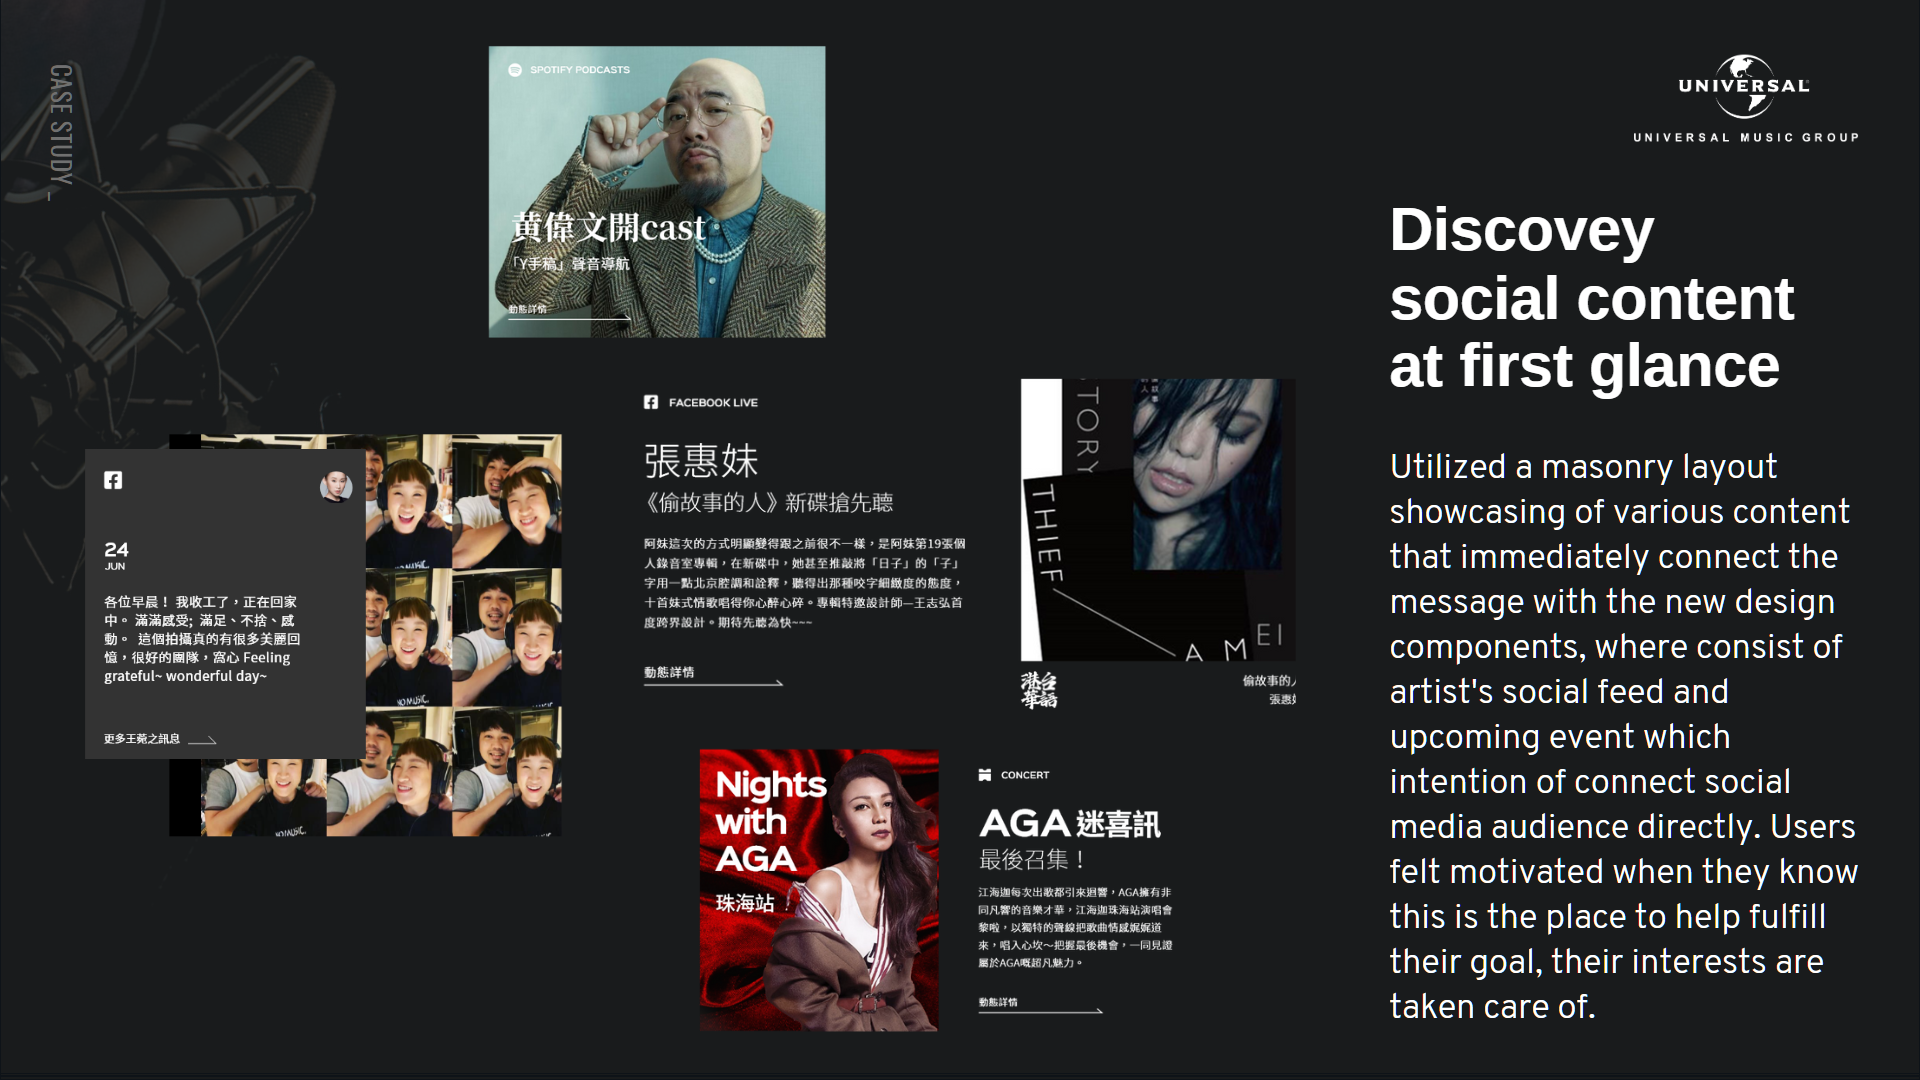
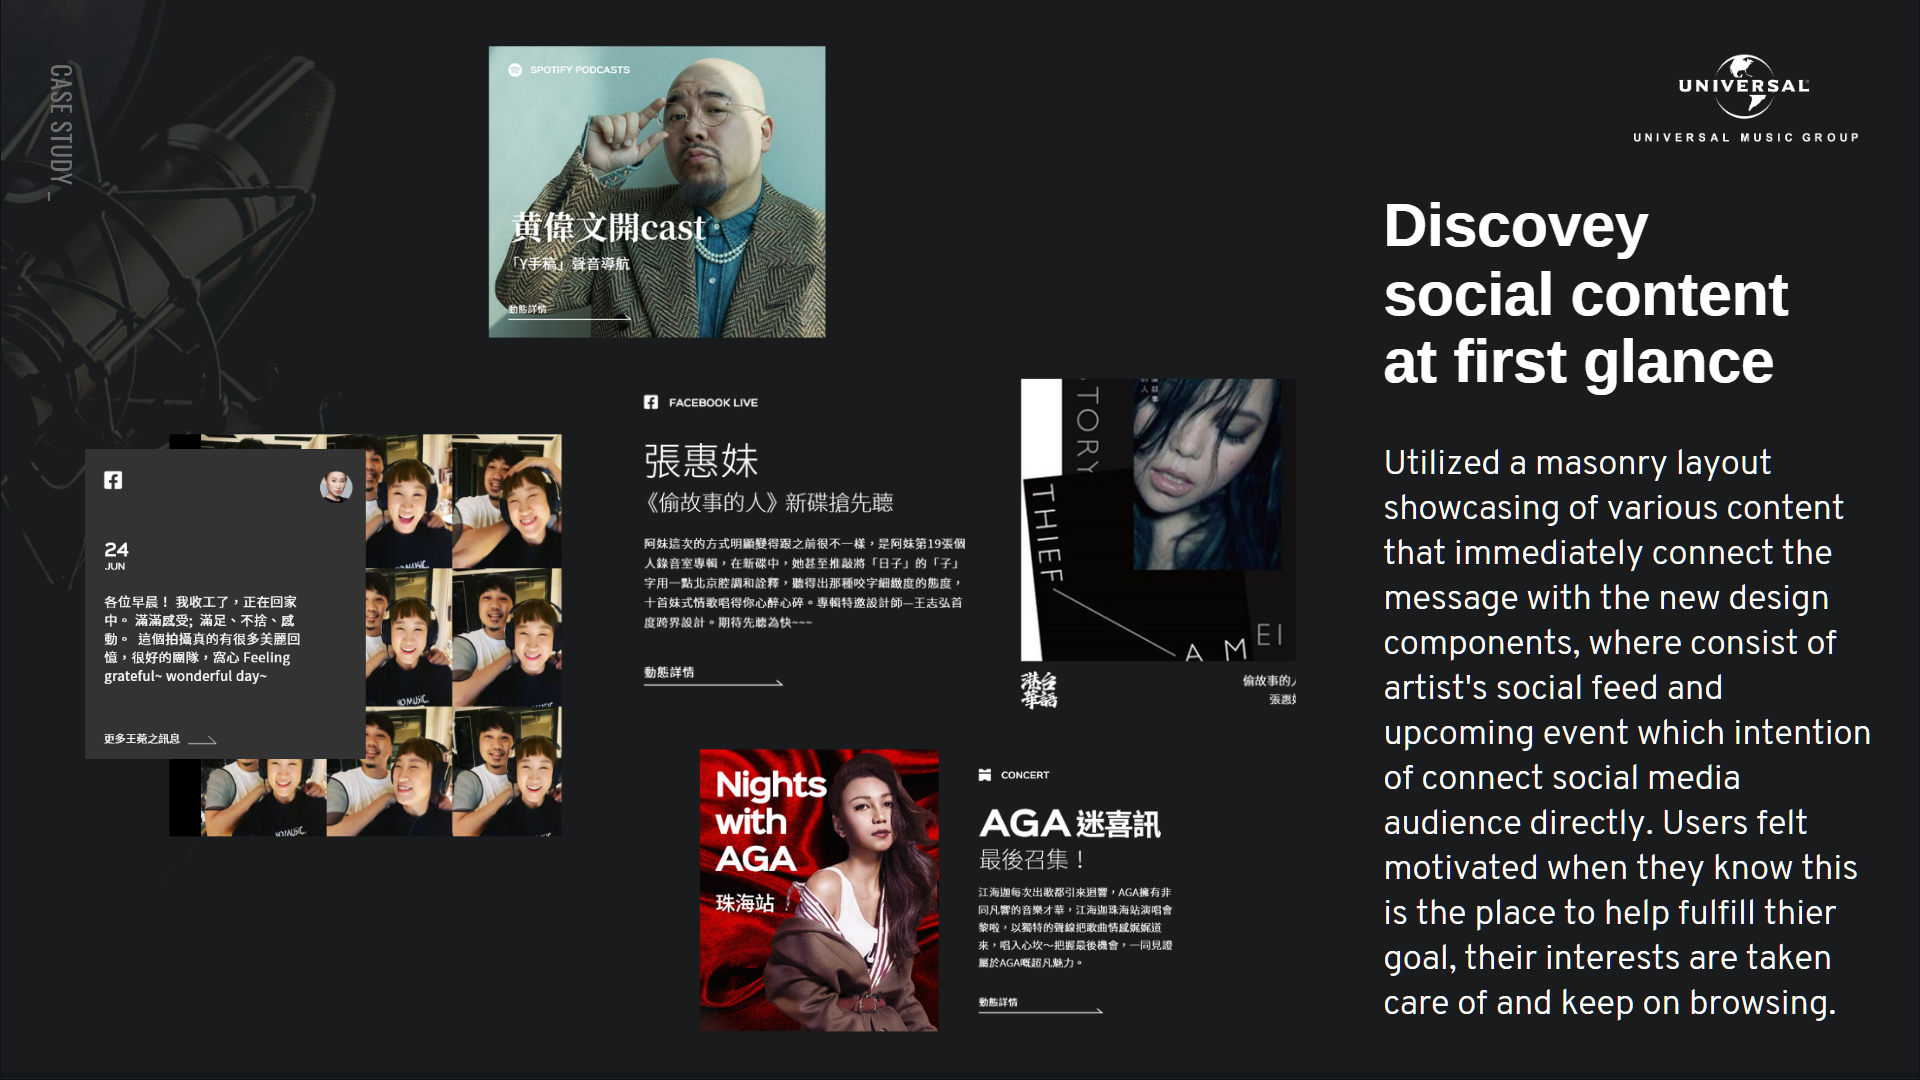
0709_01

Changed region(s): [[0.7188, 0.3972, 0.9688, 0.9472], [0.7188, 0.1833, 0.9375, 0.3667]]

diff --git a/project/umg_hk.html b/project/umg_hk.html
@@ -473,7 +473,7 @@
       <p class="observable body spacing-medium">As prototyping shown, Redesigned landing experience was progressive disclosure in four section to keep the content structure feeling lighter and crisp design, thereby not overwhelming and confusing the user when landed on, and also it can be a gentle push to the next page in a journey. It purpose to protect the user from getting stuck and keep on browsing, so that lead to a reduce bouncing rate also. <span class="material-icons" style="font-size:15px; top: 2px; padding-right: 2px; padding-left: 2px;">open_in_new</span> <a class="image-popup-fit-width underlined" title="Click on image to enlarge/reduce it"  href="../images/projects/umg_hk/landing_section.gif">Detail</a></p>
 
       <p class="observable h1 spacing-sub-title">Discovey content at first glance easily</p>
-      <p class="observable body spacing-medium">Improved the content hierarchy in second section that make it faster recognize. I utilized a masonry layout showcasing of various content that immediately connect the message with the new design components, where consist of artist's social feed and upcoming event which intention of connect social media audience directly. Users felt motivated when they know this is the place to help fulfill their goal, their interests are taken care of. <span class="material-icons" style="font-size:15px; top: 2px; padding-right: 2px; padding-left: 2px;">open_in_new</span> <a class="image-popup-fit-width underlined" title="Click on image to enlarge/reduce it"  href="../images/projects/umg_hk/content.png">Detail</a>&nbsp; Beside, Having a full screen menu also helps in this aspect as it provides a clear overview of the website, easy access to the rest of the content. <span class="material-icons" style="font-size:15px; top: 2px; padding-right: 2px; padding-left: 2px;">open_in_new</span> <a class="image-popup-fit-width underlined" title="Click on image to enlarge/reduce it"  href="../images/projects/umg_hk/menu.jpg">Detail</a></p>
+      <p class="observable body spacing-medium">Improved the content hierarchy in second section that make it faster recognize. I utilized a masonry layout showcasing of various content that immediately connect the message with the new design components, where consist of artist's social feed and upcoming event which intention of connect social media audience directly. Users felt motivated when they know this is the place to help fulfill thier goal, their interests are taken care of and keep on browsing. <span class="material-icons" style="font-size:15px; top: 2px; padding-right: 2px; padding-left: 2px;">open_in_new</span> <a class="image-popup-fit-width underlined" title="Click on image to enlarge/reduce it"  href="../images/projects/umg_hk/content.png">Detail</a>&nbsp; Beside, Having a full screen menu also helps in this aspect as it provides a clear overview of the website, easy access to the rest of the content. <span class="material-icons" style="font-size:15px; top: 2px; padding-right: 2px; padding-left: 2px;">open_in_new</span> <a class="image-popup-fit-width underlined" title="Click on image to enlarge/reduce it"  href="../images/projects/umg_hk/menu.jpg">Detail</a></p>
 
       <p class="observable body spacing-small">Affiliate program was second goal of the project. As demo shown, CTA button as round element is easier to draw users attention via highly visable accent blue in way. Once users click on button in the "Album Detail" page that lead them redirect to Ushop.com (Official e-shop) for purchase CD Album though affiliate tracking link. <span class="material-icons" style="font-size:15px; top: 2px; padding-right: 2px; padding-left: 2px;">open_in_new</span> <a class="image-popup-fit-width underlined" title="Click on image to enlarge/reduce it"  href="../images/projects/umg_hk/affiliate.jpg">Detail</a></p>
     </div>
